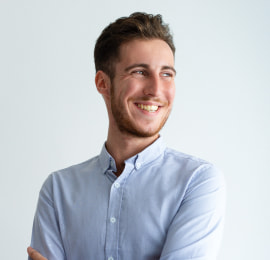
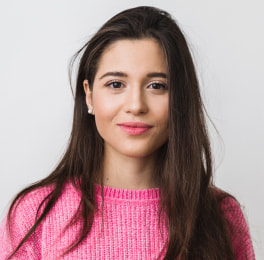
Summaru

diff --git a/index.html b/index.html
@@ -180,20 +180,20 @@
         </div>
       </section> -->
       <!--Team section-->
-      <!-- <section class="team section">
+      <section class="team section">
         <div class="container">
-          <h2 class="section-title">Наша команда</h2>
+          <h2 class="section-title">Our Team</h2>
           <ul class="team-list list">
             <li class="team-item">
               <img
                 class="team-img"
                 src="./images/our_team/img-1.jpg"
-                alt="Игорь Демьяненко"
+                alt="Mark Guerrero"
                 width="270"
                 height="260"
               />
               <div class="team-description">
-                <h3 class="team-subtitle">Ігор Дем'яненко</h3>
+                <h3 class="team-subtitle">Mark Guerrero</h3>
                 <p class="team-desc">Product Designer</p>
                 <ul class="socials list">
                   <li class="socials-item">
@@ -217,8 +217,9 @@
                       rel="noopener noreferrer"
                       aria-label="twitter"
                       ><svg class="socials-icon" width="20" height="20">
-                        <use href="./images/icons.svg#twitter"></use></svg
-                    ></a>
+                        <use href="./images/icons.svg#twitter"></use>
+                      </svg>
+                    </a>
                   </li>
                   <li class="socials-item">
                     <a
@@ -228,8 +229,9 @@
                       rel="noopener noreferrer"
                       aria-label="facebook"
                       ><svg class="socials-icon" width="20" height="20">
-                        <use href="./images/icons.svg#facebook"></use></svg
-                    ></a>
+                        <use href="./images/icons.svg#facebook"></use>
+                      </svg>
+                    </a>
                   </li>
                   <li class="socials-item">
                     <a
@@ -239,8 +241,9 @@
                       rel="noopener noreferrer"
                       aria-label="linkedin"
                       ><svg class="socials-icon" width="20" height="20">
-                        <use href="./images/icons.svg#linkedin"></use></svg
-                    ></a>
+                        <use href="./images/icons.svg#linkedin"></use>
+                      </svg>
+                    </a>
                   </li>
                 </ul>
               </div>
@@ -249,12 +252,12 @@
               <img
                 class="team-img"
                 src="./images/our_team/img-2.jpg"
-                alt="Ольга Репина"
+                alt="Tom Ford"
                 width="270"
                 height="260"
               />
               <div class="team-description">
-                <h3 class="team-subtitle">Ольга Рєпіна</h3>
+                <h3 class="team-subtitle">Tom Ford</h3>
                 <p class="team-desc">Frontend Developer</p>
                 <ul class="socials list">
                   <li class="socials-item">
@@ -278,8 +281,9 @@
                       rel="noopener noreferrer"
                       aria-label="twitter"
                       ><svg class="socials-icon" width="20" height="20">
-                        <use href="./images/icons.svg#twitter"></use></svg
-                    ></a>
+                        <use href="./images/icons.svg#twitter"></use>
+                      </svg>
+                    </a>
                   </li>
                   <li class="socials-item">
                     <a
@@ -289,8 +293,9 @@
                       rel="noopener noreferrer"
                       aria-label="facebook"
                       ><svg class="socials-icon" width="20" height="20">
-                        <use href="./images/icons.svg#facebook"></use></svg
-                    ></a>
+                        <use href="./images/icons.svg#facebook"></use>
+                      </svg>
+                    </a>
                   </li>
                   <li class="socials-item">
                     <a
@@ -300,8 +305,9 @@
                       rel="noopener noreferrer"
                       aria-label="linkedin"
                       ><svg class="socials-icon" width="20" height="20">
-                        <use href="./images/icons.svg#linkedin"></use></svg
-                    ></a>
+                        <use href="./images/icons.svg#linkedin"></use>
+                      </svg>
+                    </a>
                   </li>
                 </ul>
               </div>
@@ -310,12 +316,12 @@
               <img
                 class="team-img"
                 src="./images/our_team/img-3.jpg"
-                alt="Николай Тарасов"
+                alt="Camila Garcia"
                 width="270"
                 height="260"
               />
               <div class="team-description">
-                <h3 class="team-subtitle">Микола Тарасов</h3>
+                <h3 class="team-subtitle">Camila Garcia</h3>
                 <p class="team-desc">Marketing</p>
                 <ul class="socials list">
                   <li class="socials-item">
@@ -339,8 +345,9 @@
                       rel="noopener noreferrer"
                       aria-label="twitter"
                       ><svg class="socials-icon" width="20" height="20">
-                        <use href="./images/icons.svg#twitter"></use></svg
-                    ></a>
+                        <use href="./images/icons.svg#twitter"></use>
+                      </svg>
+                    </a>
                   </li>
                   <li class="socials-item">
                     <a
@@ -350,8 +357,9 @@
                       rel="noopener noreferrer"
                       aria-label="facebook"
                       ><svg class="socials-icon" width="20" height="20">
-                        <use href="./images/icons.svg#facebook"></use></svg
-                    ></a>
+                        <use href="./images/icons.svg#facebook"></use>
+                      </svg>
+                    </a>
                   </li>
                   <li class="socials-item">
                     <a
@@ -361,8 +369,9 @@
                       rel="noopener noreferrer"
                       aria-label="linkedin"
                       ><svg class="socials-icon" width="20" height="20">
-                        <use href="./images/icons.svg#linkedin"></use></svg
-                    ></a>
+                        <use href="./images/icons.svg#linkedin"></use>
+                      </svg>
+                    </a>
                   </li>
                 </ul>
               </div>
@@ -371,12 +380,12 @@
               <img
                 class="team-img"
                 src="./images/our_team/img-4.jpg"
-                alt="Михаил Ермаков"
+                alt="Daniel Wilson"
                 width="270"
                 height="260"
               />
               <div class="team-description">
-                <h3 class="team-subtitle">Михайло Єрмаков</h3>
+                <h3 class="team-subtitle">Daniel Wilson</h3>
                 <p class="team-desc">UI Designer</p>
                 <ul class="socials list">
                   <li class="socials-item">
@@ -400,8 +409,9 @@
                       rel="noopener noreferrer"
                       aria-label="twitter"
                       ><svg class="socials-icon" width="20" height="20">
-                        <use href="./images/icons.svg#twitter"></use></svg
-                    ></a>
+                        <use href="./images/icons.svg#twitter"></use>
+                      </svg>
+                    </a>
                   </li>
                   <li class="socials-item">
                     <a
@@ -411,8 +421,9 @@
                       rel="noopener noreferrer"
                       aria-label="facebook"
                       ><svg class="socials-icon" width="20" height="20">
-                        <use href="./images/icons.svg#facebook"></use></svg
-                    ></a>
+                        <use href="./images/icons.svg#facebook"></use>
+                      </svg>
+                    </a>
                   </li>
                   <li class="socials-item">
                     <a
@@ -422,15 +433,16 @@
                       rel="noopener noreferrer"
                       aria-label="linkedin"
                       ><svg class="socials-icon" width="20" height="20">
-                        <use href="./images/icons.svg#linkedin"></use></svg
-                    ></a>
+                        <use href="./images/icons.svg#linkedin"></use>
+                      </svg>
+                    </a>
                   </li>
                 </ul>
               </div>
             </li>
           </ul>
         </div>
-      </section> -->
+      </section>
       <!--Customers section-->
       <section class="customers-section section { padding-top: 96px; padding-bottom: 96px; }">
         <div class="container">

diff --git a/css/styles.css b/css/styles.css
@@ -13,7 +13,7 @@
   --light: #f4f4fd;
   --modal-overlay: #2e2f4266;
   --hero-background: #2e2f42b2;
-
+/* 
   /*Text colors*/
   --main-txt-cl: #757575;
   --secondary-txt-color: #212121;
@@ -21,7 +21,7 @@
   /*BG colors */
   --dark-bg-cl: #2f303a;
   --light-bg-cl: #ffffff;
-  --gray-bg-cl: #f5f4fa;
+  --gray-bg-cl: #f5f4fa; */
   /*Others */
   --animation: 250ms cubic-bezier(0.4, 0, 0.2, 1);
 }
@@ -66,7 +66,7 @@ button {
 .container {
   width: 100%;
   margin: 0 auto;
-  padding: 0 15px;
+  padding: 0 15px; 
 
   /*outline: 2px solid red;
   outline-offset: -2px;*/
@@ -86,7 +86,7 @@ button {
   font-size: 36px;
   line-height: 1.16;
   text-align: center;
-  color: var(--secondary-txt-color);
+  color: var(--dark);
 }
 .visually-hidden {
   position: absolute;
@@ -288,28 +288,30 @@ button {
 
 /*Team section*/
 .team {
-  background-color: var(--gray-bg-cl);
+  background-color: var(--light);
 }
 .team-description {
   padding: 30px 0;
 }
 .team-list {
   display: flex;
-  gap: 30px;
+  flex-wrap: wrap;
+  /* gap: 30px; */
 }
 .team-item {
   background: #ffffff;
-
+  width: 100%;
   box-shadow: 0px 1px 3px rgba(0, 0, 0, 0.12), 0px 1px 1px rgba(0, 0, 0, 0.14),
     0px 2px 1px rgba(0, 0, 0, 0.2);
   border-radius: 0px 0px 4px 4px;
 }
+
 .team-subtitle {
   font-weight: 500;
-  font-size: 16px;
+  font-size: 20px;
   line-height: 1.19;
   text-align: center;
-  color: var(--secondary-txt-color);
+  color: var(--dark);
 }
 .team-desc {
   margin-top: 10px;
@@ -319,9 +321,11 @@ button {
   font-size: 16px;
   line-height: 1.19;
   text-align: center;
+  color: var(--text);
 }
 
 /*Customers section*/
+
 /* .customers {
   display: flex;
   align-items: center;
@@ -599,8 +603,8 @@ address {
   justify-content: center;
   width: 44px;
   height: 44px;
-  color: #afb1b8;
-  background-color: var(--light-bg-cl);
+  color: var(--light);
+  background-color: var(--primary-brand);
   border-radius: 50%;
   transition: background-color var(--animation);
 }
@@ -610,8 +614,8 @@ address {
 }
 .socials-link:hover,
 .socials-link:focus {
-  color: var(--light-bg-cl);
-  background-color: var(--accent-txt-cl);
+  color: var(--light);
+  background-color: var(--pressed-state);
 }
 
 /*Спосіб з вказанням fill для іконки*/

diff --git a/css/media.css b/css/media.css
@@ -15,9 +15,17 @@
     column-gap: 24px;
   }
   .customers-link {
-  width: 168px;
-  height: 88px;
+    width: 168px;
+    height: 88px;
+  }
+  .team-item {
+    width: calc((100% - 24px) / 2);
+  }
+  .team-list {
+    column-gap: 24px;
+  }
 }
+
 @media screen and (min-width: 1158px) {
   .container {
     max-width: 1158px;
@@ -26,11 +34,17 @@
     width: calc((100% - 120px) / 6);
   }
   .customers-link {
-  width: 168px;
-  height: 88px;
-}
-.customers-section {
-  padding-top: 120px;
-  padding-bottom: 120px;
-}
+    width: 168px;
+    height: 88px;
+  }
+  .customers-section {
+    padding-top: 120px;
+    padding-bottom: 120px;
+  }
+  .team-item {
+    width: calc((100% - 72px) / 4);
+  }
+  .team-list {
+    column-gap: 24px;
+  }
 }
